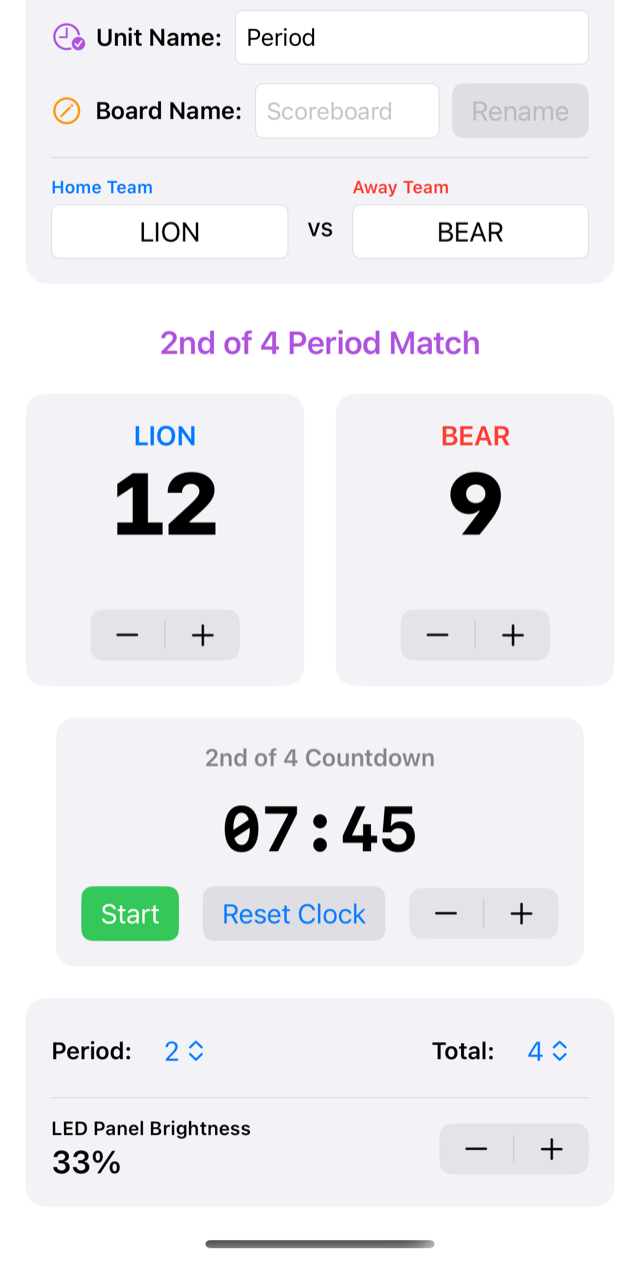
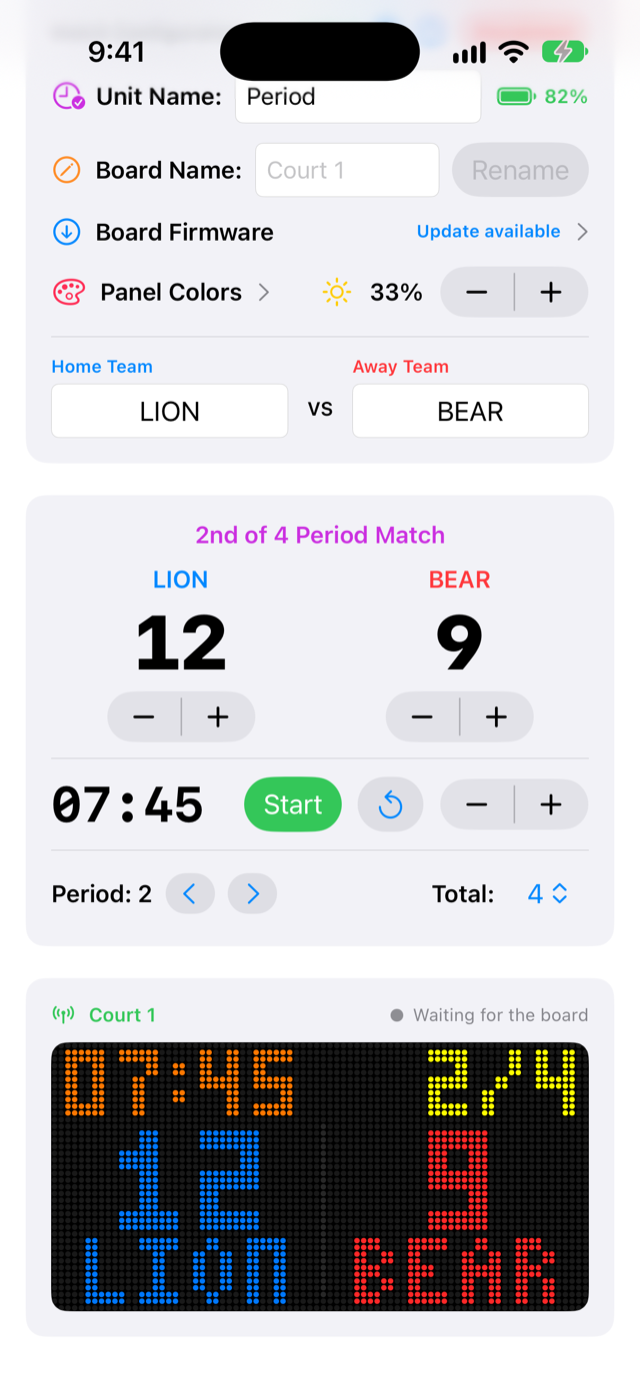
App 1.3.0 (17): new screenshots, tutorials for the current screens, narrow-phone layout fixes
- Screenshots regenerated in English and Spanish from the simulator (match screen, landscape, firmware page, watch with the countdown), with a repeatable script: tools/take-screenshots.sh.
- Tutorials describe the current screens and add the firmware, landscape and language sections.
- The countdown and the Start button no longer wrap on narrower phones.
- Debug-only helpers for screenshots: -landscape, and sample names and clock in the watch demo.

diff --git a/BLEScoreboard/ContentView.swift b/BLEScoreboard/ContentView.swift
@@ -233,9 +233,9 @@ struct ContentView: View {
                                 }
                                 Divider()
                                 HStack(spacing: 10) {
-                                    Text(String(format: "%02d:%02d", ble.timerMin, ble.timerSec)).font(.system(size: 34, weight: .bold, design: .monospaced))
+                                    Text(String(format: "%02d:%02d", ble.timerMin, ble.timerSec)).font(.system(size: 34, weight: .bold, design: .monospaced)).lineLimit(1).minimumScaleFactor(0.6).layoutPriority(1)
                                     Spacer(minLength: 4)
-                                    Button(LocalizedStringKey(ble.isTimerRunning ? "Pause" : "Start")) { ble.toggleClock() }.buttonStyle(.borderedProminent).tint(ble.isTimerRunning ? .orange : .green)
+                                    Button(LocalizedStringKey(ble.isTimerRunning ? "Pause" : "Start")) { ble.toggleClock() }.buttonStyle(.borderedProminent).tint(ble.isTimerRunning ? .orange : .green).lineLimit(1).fixedSize(horizontal: true, vertical: false)
                                     Button { ble.resetClockManual(minutes: lastSavedMinutes) } label: { Image(systemName: "arrow.counterclockwise") }
                                         .accessibilityLabel(Text("Reset Clock")).buttonStyle(.bordered)
                                     Stepper("Min", value: Binding(get: { ble.timerMin }, set: { newValue in ble.timerMin = newValue; lastSavedMinutes = newValue; ble.syncDataToDisplay() }), in: 1...90).labelsHidden()
@@ -318,6 +318,15 @@ struct ContentView: View {
             }
         }
         .sheet(isPresented: $showTutorial) { TutorialView() }
+        .onAppear {
+            #if DEBUG
+            // screenshots: `-landscape` turns the app sideways in the simulator
+            if ProcessInfo.processInfo.arguments.contains("-landscape"),
+               let scene = UIApplication.shared.connectedScenes.first as? UIWindowScene {
+                scene.requestGeometryUpdate(.iOS(interfaceOrientations: .landscapeRight))
+            }
+            #endif
+        }
         .onChange(of: scenePhase) { _, phase in if phase == .active { ble.refreshClockAfterBackground() } }
         .environment(\.locale, ble.language.locale)       // SwiftUI texts follow the language picked in the app
     }

diff --git a/ScoreboardWatch Watch App/ContentView.swift b/ScoreboardWatch Watch App/ContentView.swift
@@ -34,7 +34,7 @@ final class WatchModel: NSObject, ObservableObject, WCSessionDelegate {
     override init() {
         super.init()
         // Sample state for tutorial screenshots in the simulator (`-demo`).
-        if ProcessInfo.processInfo.arguments.contains("-demo") { homeScore = 12; awayScore = 9; period = 2 }
+        if ProcessInfo.processInfo.arguments.contains("-demo") { homeScore = 12; awayScore = 9; period = 2; homeName = "LION"; awayName = "BEAR"; minutes = 7; seconds = 45 }
         if WCSession.isSupported() {
             WCSession.default.delegate = self
             WCSession.default.activate()

diff --git a/docs/TUTORIAL.es.md b/docs/TUTORIAL.es.md
@@ -2,7 +2,7 @@
 
 Cómo vincular tu marcador y dirigir un partido con la app. El mismo recorrido está dentro de la app: toca el botón **?**.
 
-> Las capturas se generan con el modo demo de depuración de la app (`-demo scanning|list|connected|connected-bottom`), por eso usan datos de ejemplo. [English version](TUTORIAL.md)
+> Las capturas se generan con el modo demo de depuración de la app (`-demo scanning|list|connected|simulate`, mira `tools/take-screenshots.sh`), por eso usan datos de ejemplo. [English version](TUTORIAL.md)
 
 ## 1. Encuentra tu marcador
 
@@ -20,15 +20,17 @@ Los marcadores aparecen en la lista al encontrarse y la app sigue buscando más.
 
 ## 3. Dirige el partido
 
-La tarjeta superior muestra el estado de la conexión, la batería del marcador y su nombre. Debajo están los nombres de los equipos, los botones de puntos y el reloj. **Iniciar**, **Pausar** y **Reiniciar reloj** controlan la cuenta regresiva, y el control de minutos define la duración del periodo. El reloj corre en tu teléfono, así que el partido continúa aunque se pierda la conexión. Cuando el marcador vuelve, la app se reconecta y reenvía el estado actual.
+La tarjeta superior muestra el estado de la conexión, el nombre del marcador, su batería (junto al nombre del periodo) y los controles de **Firmware del marcador**, **Colores del panel** y brillo. Debajo están los nombres de los equipos y un solo cuadro con el título del periodo, los dos marcadores, la cuenta regresiva y los controles de periodo. **Iniciar**, **Pausar** y el botón de reinicio controlan la cuenta regresiva, y el control de minutos define la duración del periodo. El reloj sigue la hora real de tu teléfono, así que el partido continúa aunque se pierda la conexión o iOS suspenda la app. Cuando el marcador vuelve, la app se vincula de nuevo y reenvía el estado.
+
+Cada vez que sube un marcador, desde el teléfono o el reloj, se muestra una animación **Gol de <equipo>** en el teléfono y en el panel, con el emoji que elijas en Colores del panel.
 
 <img src="images/3-game-es.png" width="280" alt="Puntos, reloj y configuración del partido">
 
 ## 4. Configura el partido
 
-Elige el periodo actual, el total de periodos y el brillo del panel. En la tarjeta superior puedes cambiar el nombre del periodo (por ejemplo Cuarto, Mitad o Tiempo) y darle un nombre al marcador con **Cambiar**: el marcador lo guarda, se reinicia y se vuelve a vincular. Los nombres usan solo caracteres simples (de 1 a 20) y el panel muestra los nombres de los equipos sin acentos.
+Usa las flechas junto a **Periodo** para ir al periodo anterior o al siguiente (el reloj se detiene y muestra el periodo siguiente completo, listo para iniciar), y el menú **Total** para el número de periodos. El brillo del panel está junto a **Colores del panel**. En la tarjeta superior puedes cambiar el nombre del periodo (por ejemplo Cuarto, Mitad o Tiempo), escribir emojis en los nombres de los equipos y darle un nombre al marcador con **Cambiar**: el marcador lo guarda, se reinicia y se vuelve a vincular. Los nombres del marcador usan solo caracteres simples (de 1 a 20).
 
-<img src="images/4-setup-es.png" width="280" alt="Periodo, total de periodos y brillo">
+<img src="images/4-setup-es.png" width="280" alt="Controles de periodo y panel simulado">
 
 ## 5. Elige los colores del panel
 
@@ -57,6 +59,22 @@ La app del Watch te permite sumar o restar puntos (− y + para cada equipo), ca
 Cuando hay un marcador real vinculado, el panel simulado es la vista previa en vivo de ese marcador: el marcador refleja la app y una línea de estado muestra **Marcador sincronizado** cuando el reloj del propio marcador coincide. **Salir del simulador** (tarjeta superior) vuelve a la lista de marcadores.
 
 <img src="images/8-simulator-button-es.png" width="240" alt="El botón Probar el marcador simulado"> <img src="images/8-simulator-es.png" width="240" alt="El marcador simulado al final de la pantalla del partido">
+
+## 9. Actualiza el firmware del marcador
+
+Abre **Firmware del marcador** en la tarjeta superior. Muestra el firmware del marcador y el que trae la app, y actualiza el marcador por Bluetooth con una barra de progreso en el panel. El LED parpadea en rojo durante la actualización, se pone verde cuando la nueva imagen se verifica y el marcador se reinicia solo.
+
+<img src="images/9-firmware-es.png" width="280" alt="La página de firmware del marcador con una actualización disponible">
+
+## 10. Marcador en horizontal
+
+Gira el teléfono en la pantalla del partido y el panel simulado ocupa toda la pantalla, con los controles de puntos, periodo y reloj en una fila debajo. La pantalla se mantiene encendida, así que el teléfono funciona como marcador si el panel real no funciona.
+
+<img src="images/10-landscape-es.png" width="560" alt="El marcador en horizontal">
+
+## 11. Idioma
+
+El botón del globo (arriba a la izquierda en Buscar marcadores, y en la tarjeta superior de la pantalla del partido) fuerza inglés o español, o sigue el idioma del teléfono. El cambio se aplica al instante en toda la app, las alertas del panel y el Apple Watch.
 
 ## Solución de problemas
 

diff --git a/docs/TUTORIAL.md b/docs/TUTORIAL.md
@@ -2,7 +2,7 @@
 
 How to link your scoreboard and run a game with the app. The same walkthrough is built into the app: tap the **?** button.
 
-> Screenshots are generated from the app's debug demo mode (`-demo scanning|list|connected|connected-bottom`), so they use sample data. [Versión en español](TUTORIAL.es.md)
+> Screenshots are generated from the app's debug demo mode (`-demo scanning|list|connected|simulate`, see `tools/take-screenshots.sh`), so they use sample data. [Versión en español](TUTORIAL.es.md)
 
 ## 1. Find your scoreboard
 
@@ -20,15 +20,17 @@ Boards appear in the list as they are found, and the app keeps looking for more.
 
 ## 3. Run the game
 
-The top card shows the link status, the board's battery and the board name. Below it are the team names, the score steppers and the clock. **Start**, **Pause** and **Reset Clock** control the countdown, and the minutes stepper sets the period length. The clock runs on your phone, so the game keeps going if the link drops. When the board is back, the app relinks and resends the live state.
+The top card shows the link status, the board name, the board's battery (next to the unit name) and the **Board Firmware**, **Panel Colors** and brightness controls. Below it are the team names and one box with the period title, both scores, the countdown and the period controls. **Start**, **Pause** and the reset button control the countdown, and the minutes stepper sets the period length. The clock follows the real time on your phone, so the game keeps going if the link drops or iOS suspends the app. When the board is back, the app relinks and resends the live state.
+
+Every time a score goes up, from the phone or the watch, a **Goal by <team>** animation plays on the phone and the panel, with the emoji you choose in Panel Colors.
 
 <img src="images/3-game-en.png" width="280" alt="Scores, clock and match settings">
 
 ## 4. Set up the match
 
-Choose the current period, the total number of periods and the panel brightness. In the top card you can rename the period unit (for example Quarter, Half or Tiempo) and give the board its own name with **Rename**: the board saves it, restarts and relinks. Names use plain characters only (1 to 20), and the panel shows team names without accents.
+Use the arrows next to **Period** to go to the previous or next period (the clock stops and shows the full next period, ready to start), and the **Total** menu for the number of periods. The panel brightness sits next to **Panel Colors**. In the top card you can rename the period unit (for example Quarter, Half or Tiempo), type emoji in the team names, and give the board its own name with **Rename**: the board saves it, restarts and relinks. Board names use plain characters only (1 to 20).
 
-<img src="images/4-setup-en.png" width="280" alt="Period, total periods and brightness">
+<img src="images/4-setup-en.png" width="280" alt="Period controls and the simulated panel">
 
 ## 5. Choose panel colors
 
@@ -57,6 +59,22 @@ No board at hand, or want to see a whole match? On the Find Scoreboards screen t
 When a real board is linked, the simulated panel is the live preview of that board: the board mirrors the app, and a status line shows **Board in sync** when the board's own clock matches. **Exit simulator** (top card) goes back to the board list.
 
 <img src="images/8-simulator-button-en.png" width="240" alt="The Try the simulated board button"> <img src="images/8-simulator-en.png" width="240" alt="The simulated board at the bottom of the match screen">
+
+## 9. Update the board firmware
+
+Open **Board Firmware** in the top card. It shows the firmware on the board and the one inside the app, and updates the board over Bluetooth with a progress bar on the panel. The LED blinks red during the update, turns green when the new image is verified, and the board restarts by itself.
+
+<img src="images/9-firmware-en.png" width="280" alt="The Board Firmware page with an update available">
+
+## 10. Landscape scoreboard
+
+Turn the phone sideways on the match screen and the simulated panel fills the screen, with the score, period and clock controls in one row below. The screen stays on, so the phone works as the scoreboard if the real panel does not.
+
+<img src="images/10-landscape-en.png" width="560" alt="The landscape scoreboard">
+
+## 11. Language
+
+The globe button (top left of the Find Scoreboards screen, and in the top card of the match screen) forces English or Spanish, or follows the phone. The change applies at once to the whole app, the panel alerts and the Apple Watch.
 
 ## Troubleshooting
 

diff --git a/CHANGELOG.md b/CHANGELOG.md
@@ -2,6 +2,10 @@
 
 Versions follow `major.minor.patch` (see the Versions section of the README). The number in brackets is the build.
 
+## 1.3.0 (17)
+- The countdown and the Start button no longer wrap on narrower phones (iPhone 17 Pro and smaller).
+- New tutorial screenshots in English and Spanish (match screen, landscape, firmware page, watch with the countdown), made with `tools/take-screenshots.sh`; the tutorials describe the current screens and add the firmware, landscape and language sections.
+
 ## 1.3.0 (16)
 - A goal alert on the panel is no longer cut at 16 characters: boards with firmware 1.2.3 take up to 32. Older boards still get the shortened text.
 - The period start alert on the panel uses your unit name ("Cuarto 2", "Quarter 2") instead of always saying "Period".
